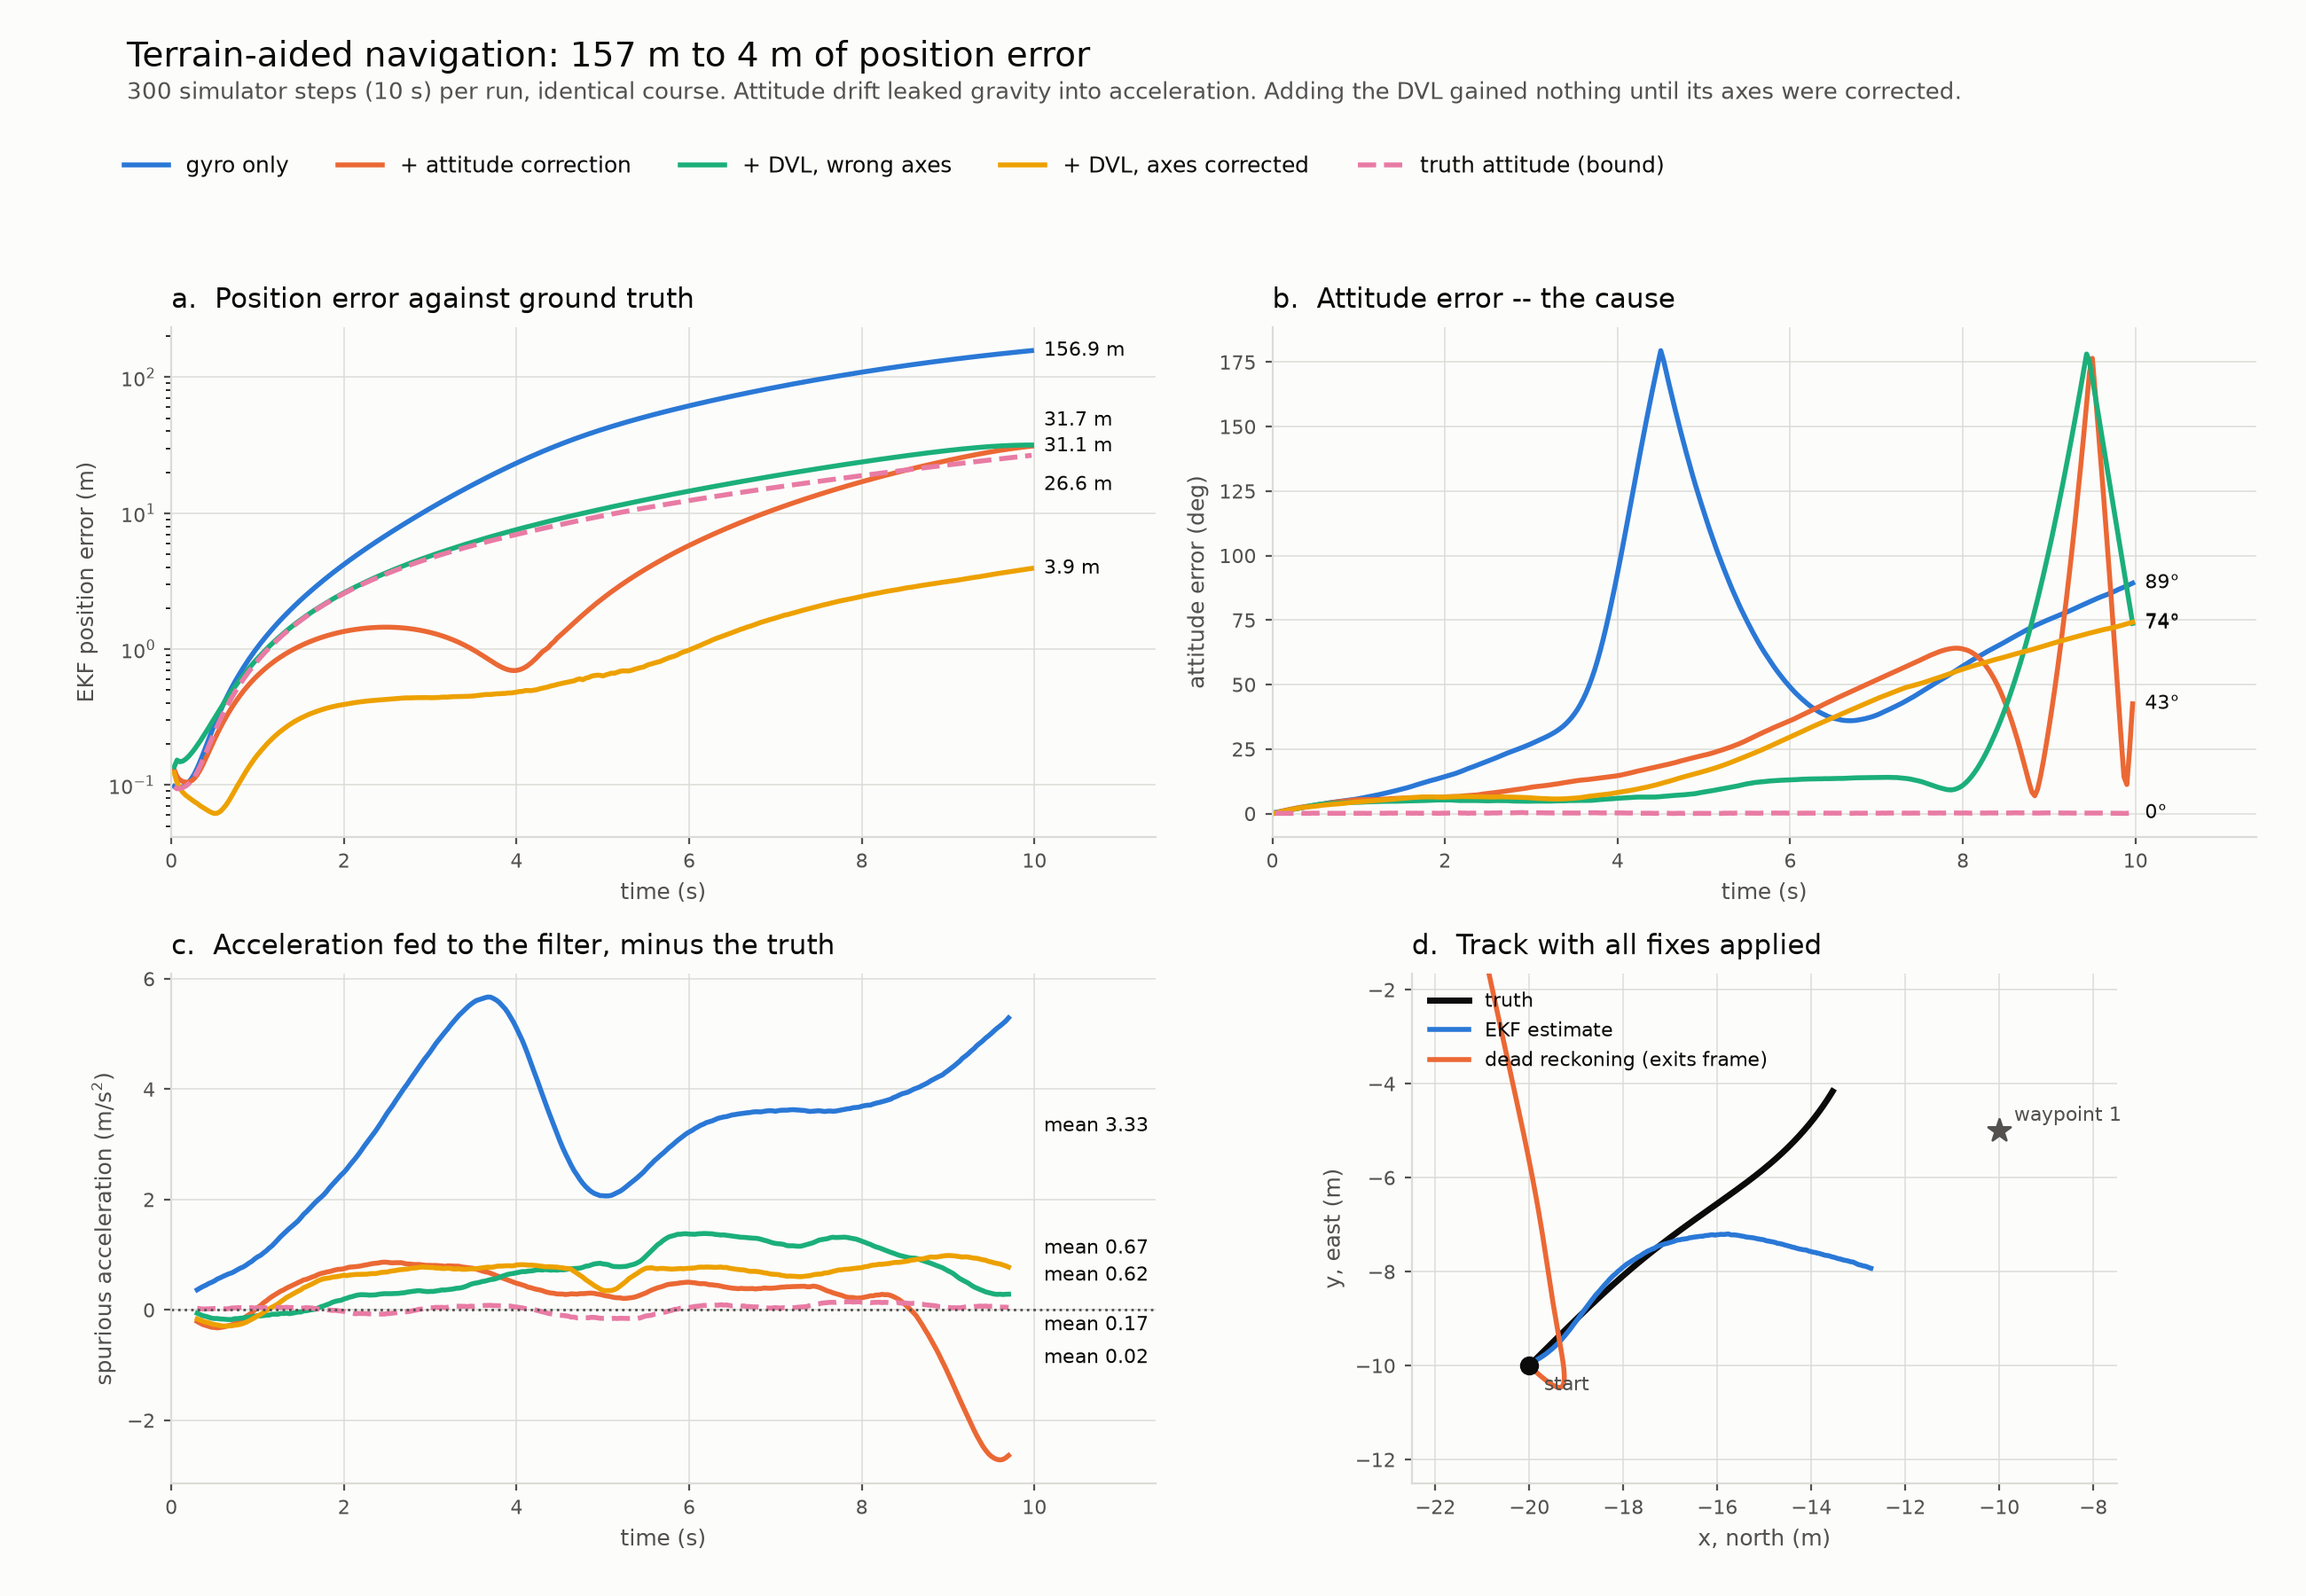
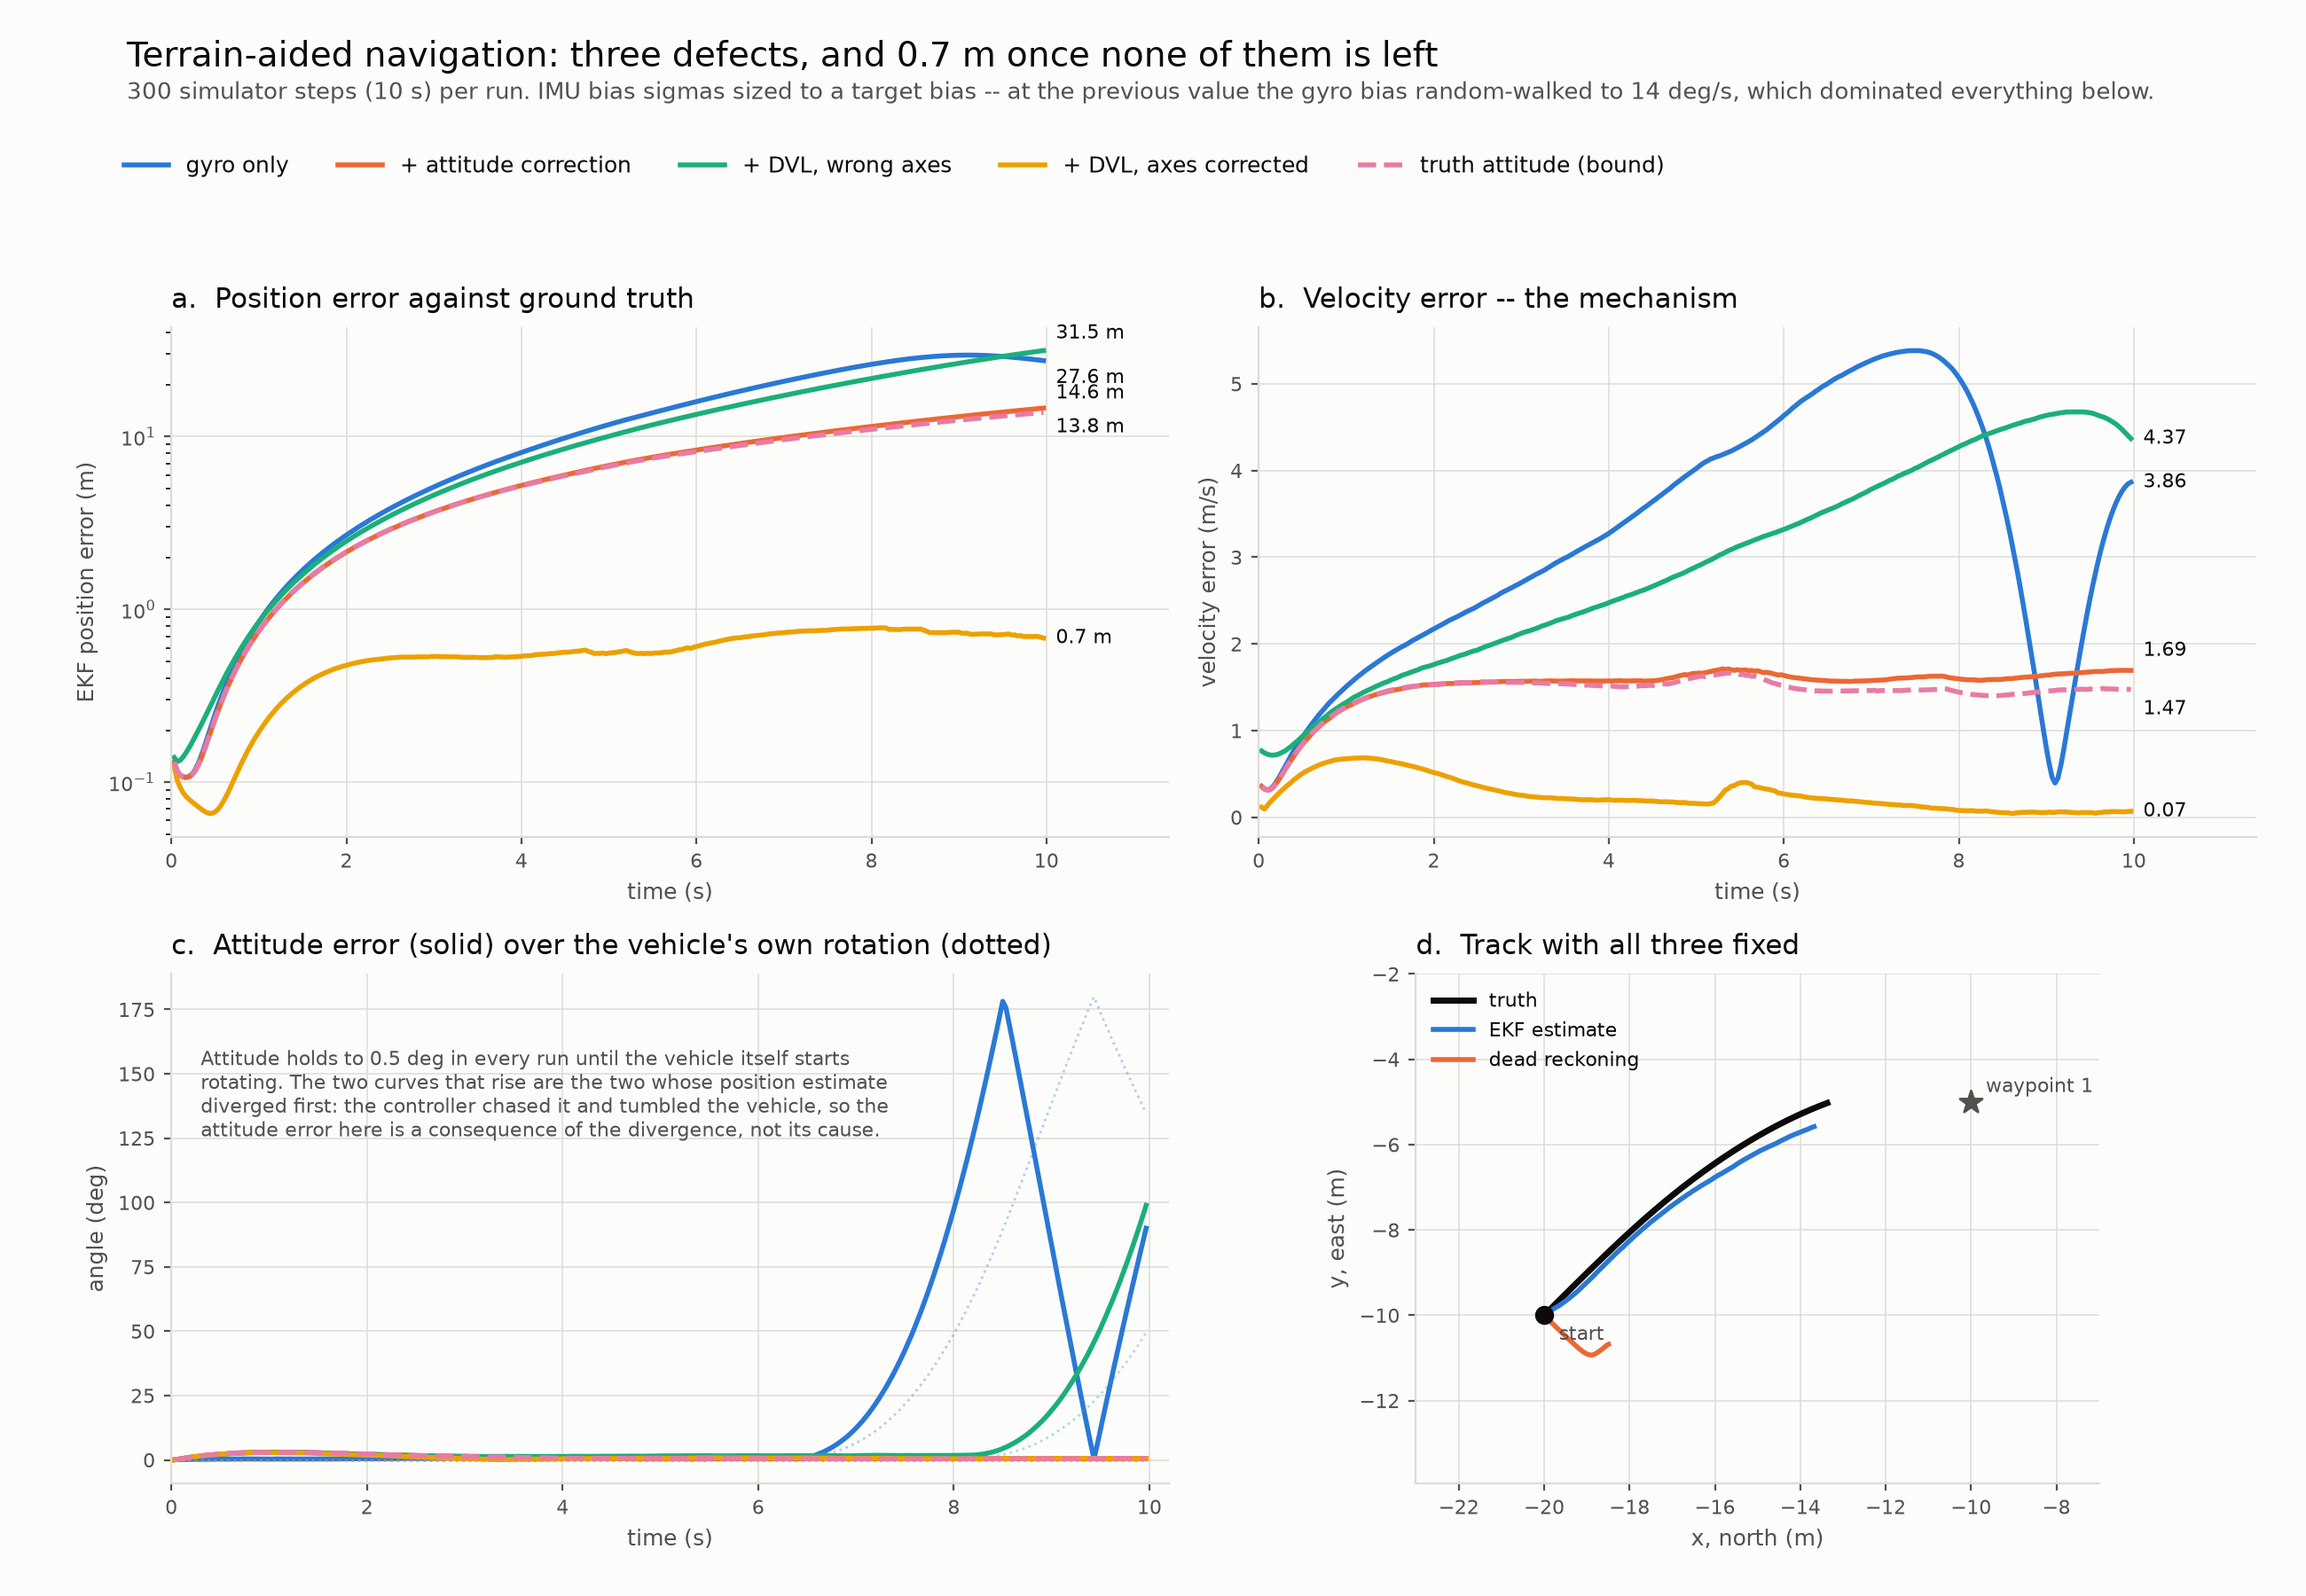
Regenerate the run figure with the fixed IMU
- Re-run all five configurations with bias sigmas sized to a target bias
- Replace the spurious-acceleration panel, now flat at zero in every run,
  with velocity error: the mechanism once gravity leakage is gone
- Plot the vehicle's own rotation behind attitude error; the two runs that
  lose attitude are the two the controller tumbled after diverging
- Add --raw-dvl-axes so the wrong-axes run stays reproducible
- Attitude correction now reaches the truth-attitude bound (14.6 vs 13.8 m),
  so the residual is unobservable velocity, not attitude
- A wrong-axis DVL is now actively harmful (31.5 m) rather than merely useless

Claude-Session: https://claude.ai/code/session_01QwysCGf3XAtsFtyrRdXt8H

diff --git a/experiments/navigate.py b/experiments/navigate.py
@@ -219,6 +219,15 @@ def parse_args() -> argparse.Namespace:
     ),
   )
   parser.add_argument(
+    "--raw-dvl-axes",
+    action="store_true",
+    help=(
+      "read the DVL without applying DVL_AXES. Its y and z are inverted "
+      "relative to the OrientationSensor frame, so this reproduces the runs "
+      "where adding a DVL bought nothing"
+    ),
+  )
+  parser.add_argument(
     "--sigma-dvl",
     type=float,
     default=0.02,
@@ -401,7 +410,8 @@ def main() -> None:
       if not args.no_dvl:
         # Body-frame velocity over ground, rotated into the world by the
         # current attitude estimate.
-        dvl_body = np.asarray(state["dvl"], dtype=float)[:3] * DVL_AXES
+        axes = 1.0 if args.raw_dvl_axes else DVL_AXES
+        dvl_body = np.asarray(state["dvl"], dtype=float)[:3] * axes
         dvl_world = dead_reckoning.rotation @ dvl_body
 
         # The reading itself is good -- measured speed matches truth to under

diff --git a/visuals/README.md b/visuals/README.md
@@ -5,51 +5,70 @@ root — `.gitignore` excludes `*.png` everywhere except here.
 
 ## `navigate_runs.png`
 
-Five `navigate.py` runs over the same 300-step (10 s) course, tracing the two
-defects found in the first simulator runs and the effect of fixing each.
+Five `navigate.py` runs over the same 300-step (10 s) course, tracing the three
+defects found in the simulator runs and the effect of fixing each.
 
-| run | configuration | final EKF error |
-|---|---|---|
-| gyro only | no attitude correction, no DVL | 156.9 m |
-| + attitude correction | `AttitudeFilter` bounding tilt | 31.1 m |
-| + DVL, wrong axes | velocity aiding, DVL frame uncorrected | 31.7 m |
-| + DVL, axes corrected | `DVL_AXES` applied | 3.9 m |
-| truth attitude (bound) | `--truth-attitude`, a diagnostic bound | 26.6 m |
+| run | configuration | final EKF error | velocity error |
+|---|---|---|---|
+| gyro only | no attitude correction, no DVL | 27.6 m | 3.86 m/s |
+| + attitude correction | `AttitudeFilter` bounding tilt | 14.6 m | 1.69 m/s |
+| + DVL, wrong axes | velocity aiding, DVL frame uncorrected | 31.5 m | 4.37 m/s |
+| + DVL, axes corrected | `DVL_AXES` applied | **0.68 m** | 0.07 m/s |
+| truth attitude (bound) | `--truth-attitude`, a diagnostic bound | 13.8 m | 1.47 m/s |
 
-The third row is the one worth dwelling on: adding the DVL bought **nothing**
-— 31.7 m against 31.1 m without it — until its axes were corrected. Its y and z
-are inverted relative to the frame the `OrientationSensor` reports, so the
-filter was handed a systematically wrong velocity and told to trust it at
-0.1 m/s. In panel (a) that run sits directly on top of the one without a DVL.
+The three defects, in the order they were found:
 
-**Superseded in part.** Every run above used `ang_vel_bias_sigma=0.01`, which
-`imu_sensor` documented as a bias standard deviation but which HoloOcean applies
-as a *per-sample random-walk increment*. Measured with `ReturnBias` against a
-motionless vehicle, it reaches 14 deg/s of gyro bias and 0.35 m/s^2 of
-accelerometer bias after 300 samples -- around 200x a real MEMS unit. The 70 deg
-of residual heading error, and the ~29 m the truth-attitude bound drifted, were
-both that. With the sigmas sized backwards from a target bias, the same code
-scores 1.1 deg of attitude error and 0.68 m of position error. The attitude and
-DVL fixes below are still real and still necessary; their residuals were not.
+1. **Attitude was propagated from the gyro alone.** Bounding tilt against the
+   accelerometer takes the run to 14.6 m — which is the truth-attitude bound of
+   13.8 m, so attitude is no longer what limits it.
+2. **The DVL's axes are not the `OrientationSensor`'s.** Its y and z are
+   inverted, so before `DVL_AXES` the DVL was *worse than not having one*:
+   31.5 m against 14.6 m. The filter was handed a systematically wrong velocity
+   and told to trust it at 0.1 m/s.
+3. **The IMU bias sigmas were misread as bias standard deviations.** HoloOcean
+   applies `AccelBiasSigma`/`AngVelBiasSigma` as **per-sample random-walk
+   increments**, so bias grows as `sigma·sqrt(n)`. At the previous value of
+   0.01 — measured with `ReturnBias` against a motionless vehicle — the gyro
+   bias reached 14 °/s and the accelerometer bias 0.35 m/s² after 300 samples,
+   around 200× a real MEMS unit. Size them backwards from a target bias:
+   `sigma = bias_at_n / sqrt(n)`.
 
-Panels: **(a)** position error against ground truth, log scale; **(b)** attitude
-error, the cause; **(c)** acceleration fed to the filter minus the truth, the
-mechanism — gravity failing to cancel as tilt error grows; **(d)** the resulting
-track with all fixes.
+That third defect dominated the other two, and its discovery changed what the
+first two mean. In the previous version of this figure the story was gravity
+leaking into acceleration through a diverging attitude; with a correctly
+specified gyro, the spurious-acceleration panel is flat at zero for every run
+and that mechanism is gone. Panel **(b)** now carries the mechanism instead:
+without a DVL, velocity is unobservable and plateaus near 1.5 m/s regardless of
+how good attitude is; with a mis-framed DVL it grows without bound; with a
+correct one it converges to 0.07 m/s.
+
+Panels: **(a)** position error against ground truth, log scale; **(b)** velocity
+error, the mechanism; **(c)** attitude error over the vehicle's own rotation;
+**(d)** the resulting track with all three fixed.
+
+**Read panel (c) carefully.** Attitude error and the vehicle's physical rotation
+are plotted together because otherwise the panel reads as if the attitude filter
+failed. It did not: attitude holds to 0.5° in every run until the vehicle itself
+starts rotating, at around t = 7 s in the two runs whose position estimate
+diverged first. The controller chased a bad estimate until it tumbled the
+vehicle. The attitude error there is a *consequence* of divergence, not its
+cause — the reverse of what the earlier version of this figure showed.
 
 **These are not a controlled comparison.** Guidance is closed on the estimate,
 so each configuration flies a genuinely different trajectory and experiences
 different manoeuvres. Differences between runs indicate estimator quality; they
-are not like-for-like. It is why the corrected-DVL run ends with *higher*
-attitude error than `+ attitude correction` while having 8x less position error.
+are not like-for-like.
 
-Made with the plotting script noted in the commit that added this file, from run
-logs produced by `experiments/navigate.py`. The logs are not in the repository —
-regenerating the figure means re-running the four configurations:
+Regenerating the figure means re-running the five configurations. The logs are
+not in the repository:
 
 ```
-nix run .#sim -- -c "python -u experiments/navigate.py --headless --max-steps 300 --gyro-only --no-dvl --out gyro.csv"
-nix run .#sim -- -c "python -u experiments/navigate.py --headless --max-steps 300 --no-dvl        --out corrected.csv"
-nix run .#sim -- -c "python -u experiments/navigate.py --headless --max-steps 300                 --out dvl.csv"
-nix run .#sim -- -c "python -u experiments/navigate.py --headless --max-steps 300 --truth-attitude --no-dvl --out bound.csv"
+nix run .#sim -- -c "python -u experiments/navigate.py --headless --max-steps 300 --gyro-only --no-dvl      --out gyro.csv"
+nix run .#sim -- -c "python -u experiments/navigate.py --headless --max-steps 300 --no-dvl                  --out att.csv"
+nix run .#sim -- -c "python -u experiments/navigate.py --headless --max-steps 300 --raw-dvl-axes            --out dvlraw.csv"
+nix run .#sim -- -c "python -u experiments/navigate.py --headless --max-steps 300                           --out dvl.csv"
+nix run .#sim -- -c "python -u experiments/navigate.py --headless --max-steps 300 --truth-attitude --no-dvl --out truth.csv"
 ```
+
+`--accel-bias-sigma 0.01 --gyro-bias-sigma 0.01` reproduces the runs from before
+the IMU was measured.
